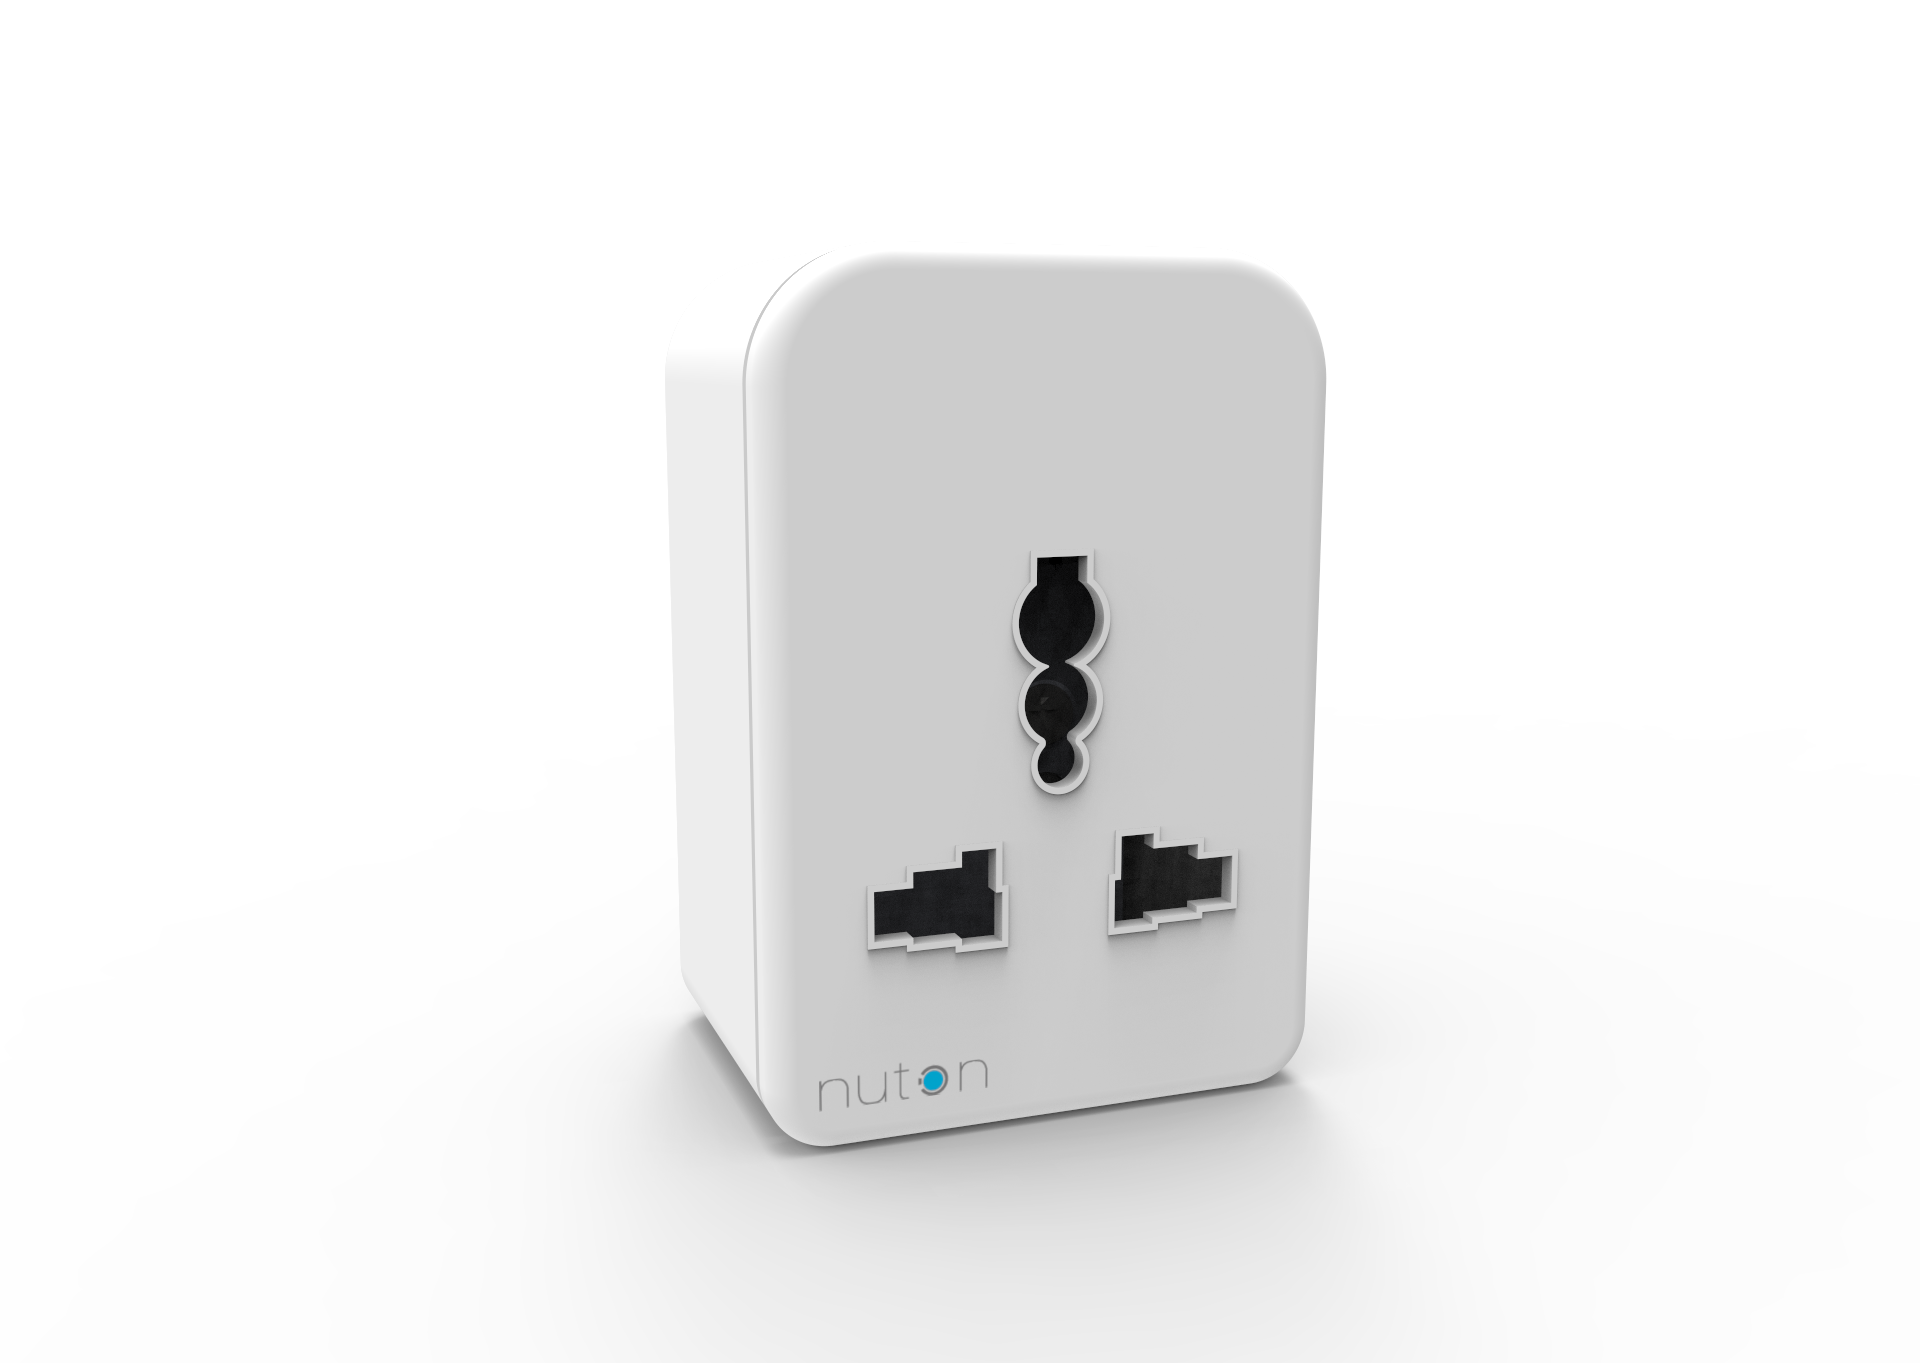
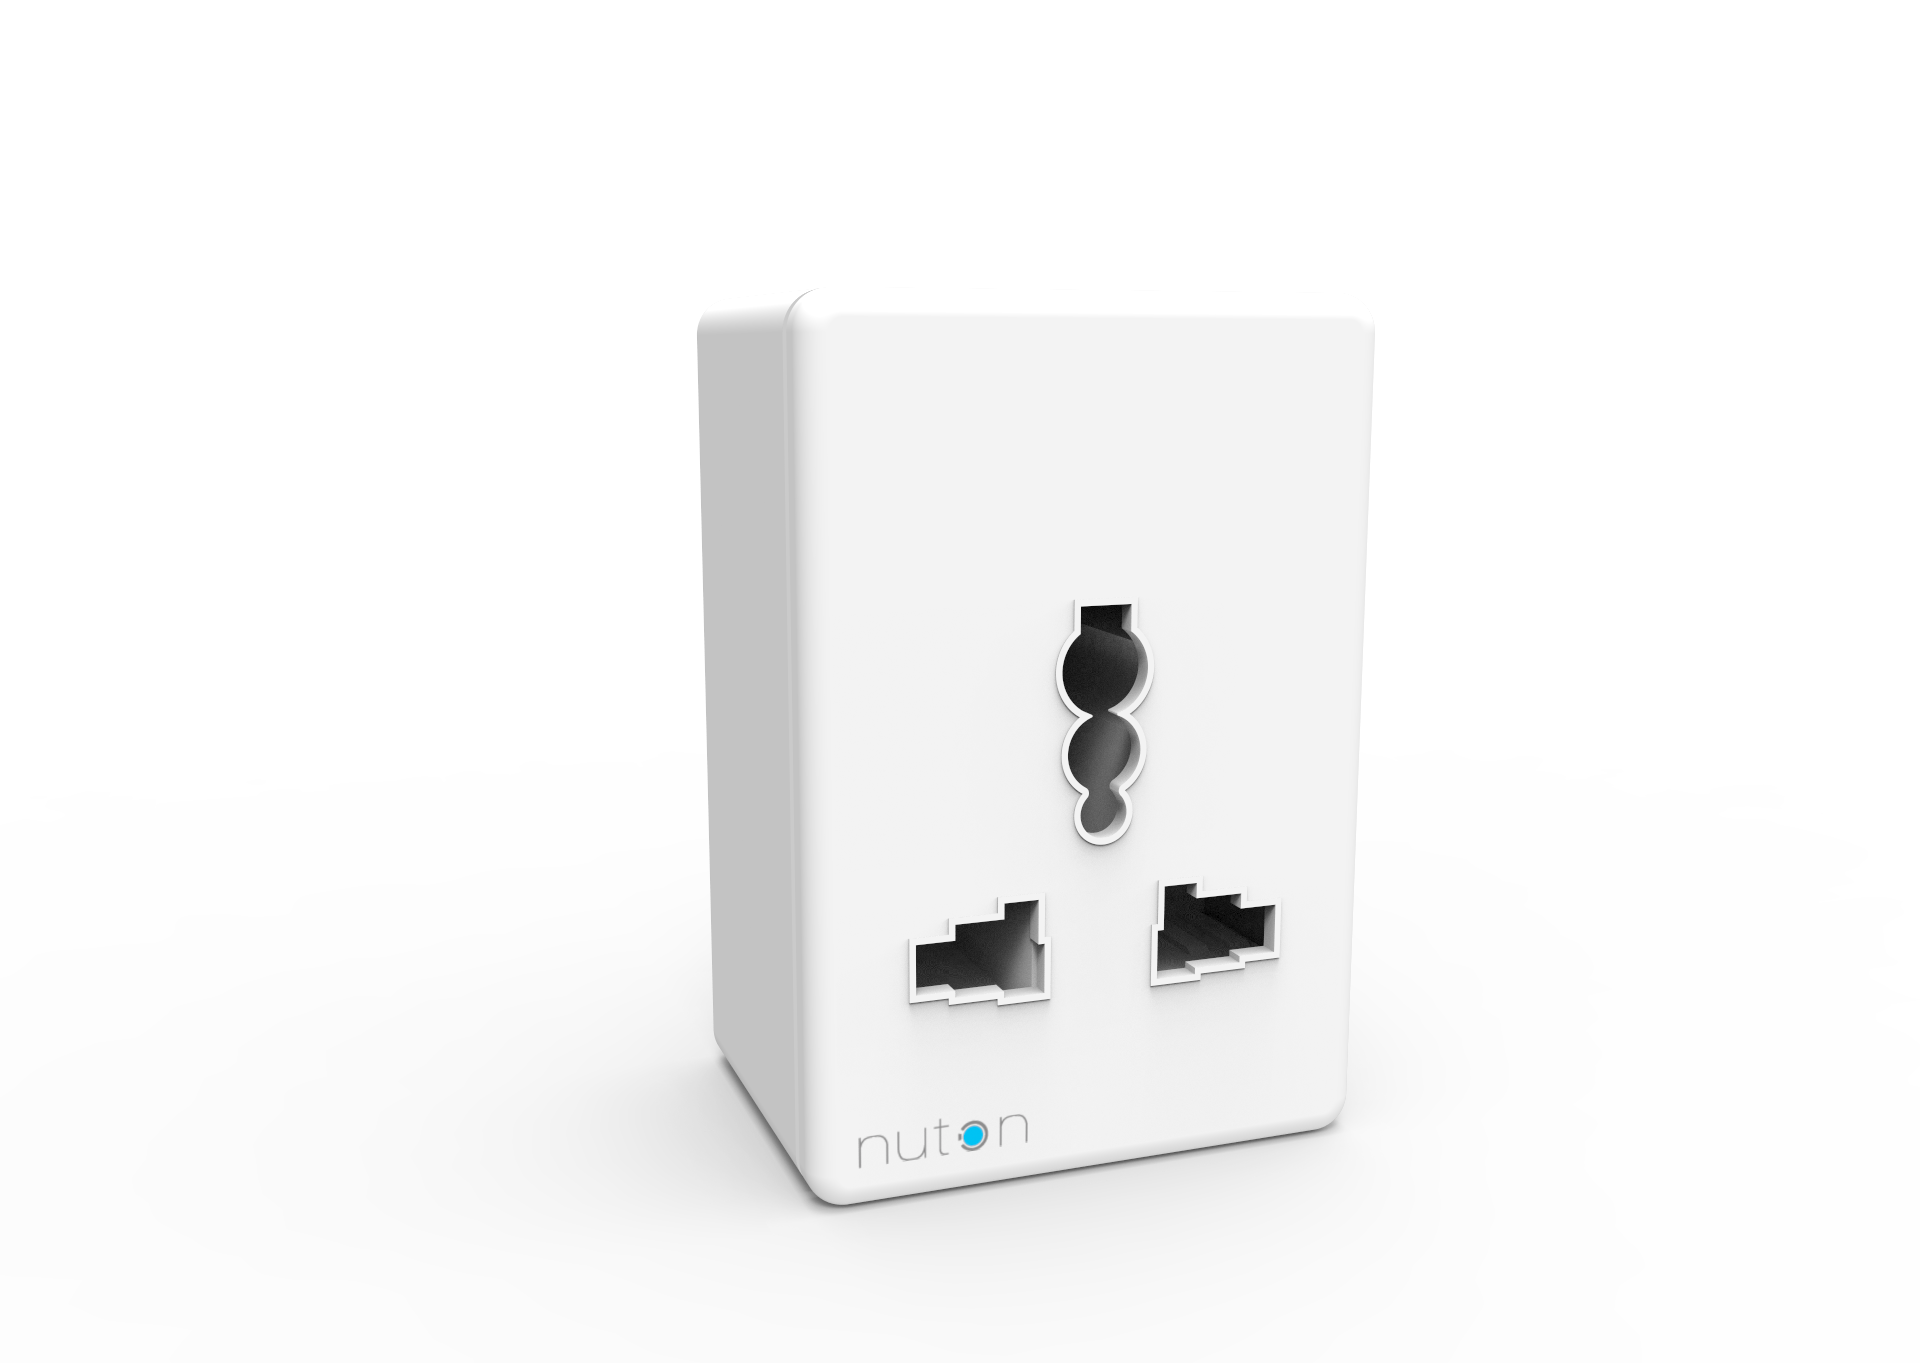
Update Aura images.

Changed region(s): [[0.3438, 0.1849, 0.6875, 0.8936]]

diff --git a/views/index.html b/views/index.html
@@ -151,7 +151,7 @@
                     {{for i, image in enumerate(product['album']):}}
                       <a class="fancybox" href="{{=URL('static', 'images/album/' + image)}}" data-fancybox-group="{{=product['name']}}-gallery" title="{{=product['title']}}">
                       {{if i == 0:}}
-                          <img style="background:transparent;" src="{{=URL('static', 'images/album/' + image)}}" alt="{{=product['title']}}"/>
+                          <img src="{{=URL('static', 'images/album/' + product['main-img'])}}" alt="{{=product['title']}}"/>
                       {{pass}}
                       </a>
                     {{pass}}

diff --git a/controllers/default.py b/controllers/default.py
@@ -13,7 +13,8 @@ def index():
             'desc': 'Aura is a smart plug which will automatically control your lights and other appliances. '
                     'It also allows wireless control appliances. '
                     'Also it can monitor current consumption of each appliance.',
-            'album': ['aura-1.png', 'aura-2.jpg', 'aura-3.jpg', 'aura-4.jpg'],
+            'main-img': 'aura-main.png',
+            'album': ['aura-1.png', 'aura-2.png', 'aura-3.png', 'aura-4.png'],
             'infographic': 'aura.jpg',
             'spec': {
                     'Electronics': [
@@ -36,6 +37,7 @@ def index():
             'title': 'Lyra the Touch',
             'desc': 'Lyra is a slim, wireless switch which can used along with Aura and Mira to control appliances. '
                     'It can moved and placed anywhere within a house. ',
+            'main-img': 'lyra-main.png',
             'album': ['lyra-1.jpg', 'lyra-2.jpg', 'lyra-3.jpg', 'lyra-4.jpg'],
             'infographic': 'lyra.jpg',
             'spec': {
@@ -59,6 +61,7 @@ def index():
             'desc': 'Lyra+ is a slim, wireless switch which can used along with Aura and Mira to control appliances. '
                     'It can moved and placed anywhere within a house. '
                     'It also has extra sensors(motion, temperature, humidity, light) which can automate things based environment',
+            'main-img': 'lyra-main.png',
             'album': ['lyra-1.jpg', 'lyra-2.jpg', 'lyra-3.jpg', 'lyra-4.jpg'],
             'infographic': 'lyra.jpg',
             'spec': {
@@ -80,6 +83,7 @@ def index():
             'name': 'hub',
             'title': 'Hub',
             'desc': 'Hub enables controlling your appliances from internet.',
+            'main-img': 'hub-main.png',
             'album': ['hub-1.jpg', 'hub-2.jpg', 'hub-3.jpg', 'hub-4.jpg'],
             'infographic': 'hub.jpg',
             'spec': {
@@ -102,6 +106,7 @@ def index():
             'name': 'mira',
             'title': 'Mira the Switch',
             'desc': 'Mira replaces the conventional switch with style.',
+            'main-img': 'mira-main.png',
             'album': ['mira-1.jpg', 'mira-2.jpg', 'mira-3.jpg', 'mira-4.jpg'],
             'infographic': 'mira.jpg',
             'spec': {
